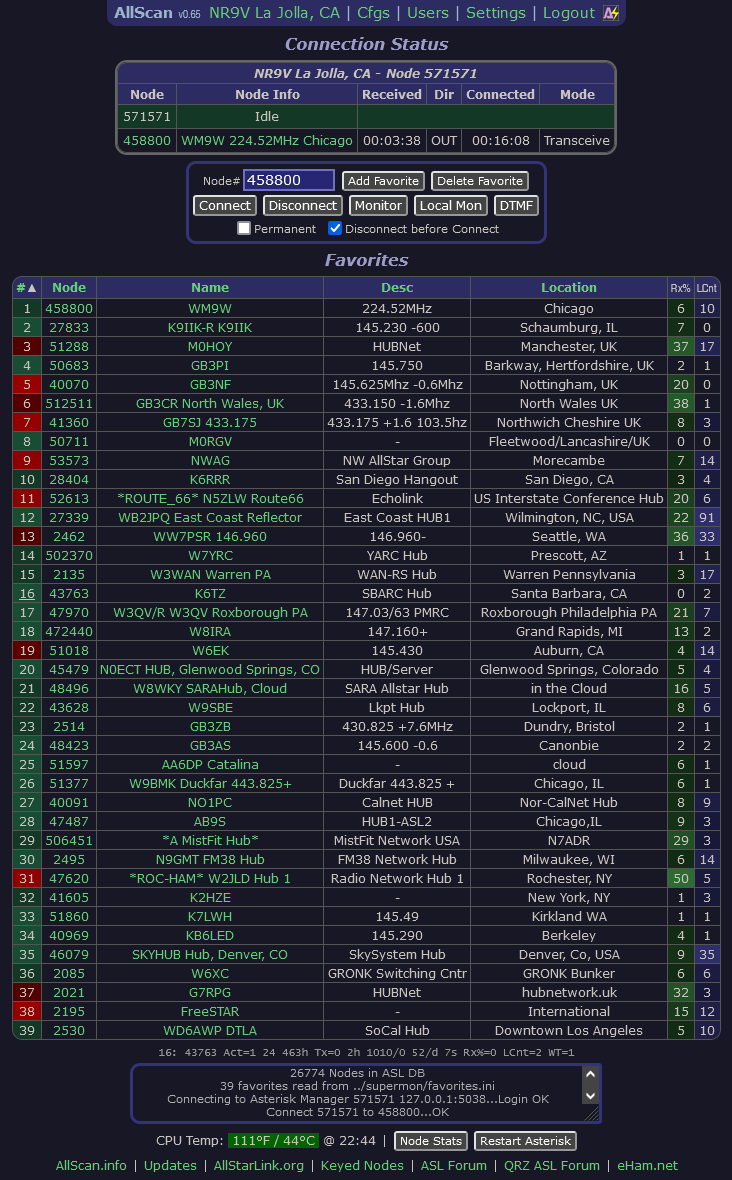
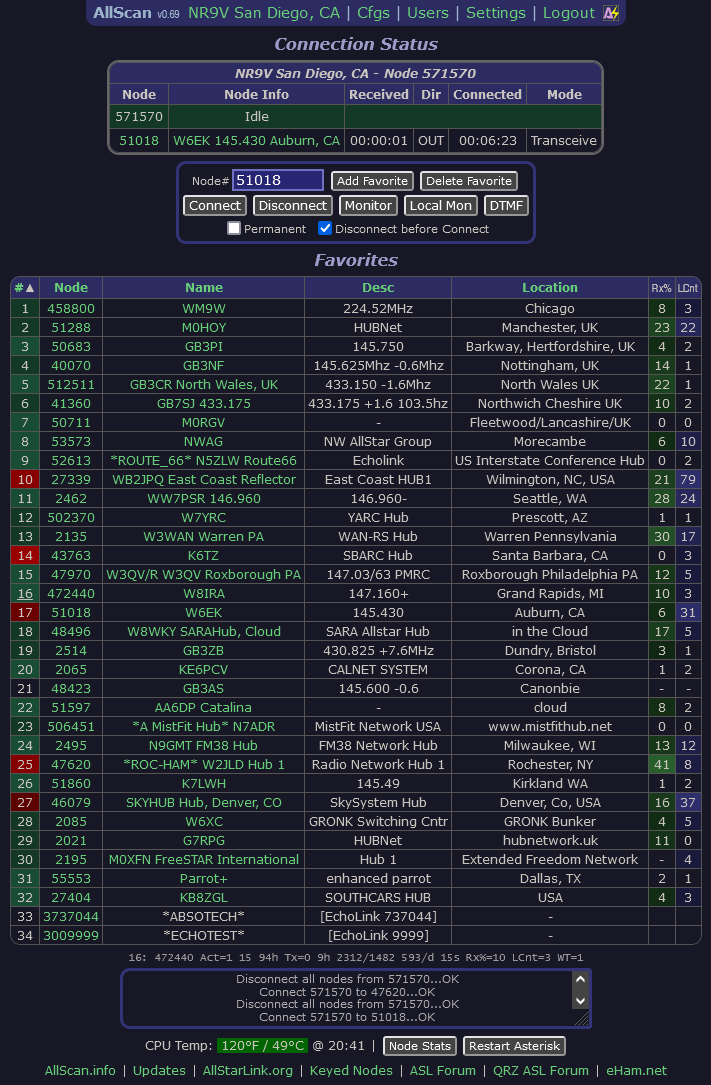
Implement retrieval of EchoLink node name/callsign data from AMI for display in the Favorites and Connection Status tables.

diff --git a/astapi/nodeInfo.php b/astapi/nodeInfo.php
@@ -9,8 +9,7 @@ function getAstInfo($fp, $nodeNum) {
 		// Link to ASL stats page
 		$info = "<a href=\"http://stats.allstarlink.org/stats/$nodeNum\" target=\"stats\">$info</a>";
 	} elseif($nodeNum > 3000000) {
-		// EchoLink lookup function by KN2R
-		$info = echolink_cache_lookup($fp, $nodeNum);
+		$info = getEchoLinkInfo($fp, $nodeNum);
 	} elseif(!empty($node['ip'])) {
 		if(strlen(trim($node['ip'])) > 3) {
 			$info = 'Web Txcvr / Phone Portal (' . $node['ip'] . ')';
@@ -29,33 +28,29 @@ function getAstInfo($fp, $nodeNum) {
 
 $elnk_cache = [];
 
-function echolink_cache_lookup($fp, $echonode) {
+function getEchoLinkInfo($fp, $echonode) {
 	global $elnk_cache, $ami;
-	$lookup = (int)substr($echonode, 1); // Strips off the leading "3" and leading zeros
+	$lookup = (int)substr($echonode, 1); // Strip leading '3' and zeros
 	if(isset($elnk_cache[$lookup])) {
 		$column = $elnk_cache[$lookup];
 		$time = time();
 		if($time > $column[0])
-			unset ($elnk_cache[$lookup]);
-		$info = $column[1] . " [EchoLink $lookup] (" . $column[2] . ")";
-		return $info;
+			unset($elnk_cache[$lookup]);
 	} else {
 		$AMI = $ami->command($fp, "echolink dbget nodename $lookup"); // Get EchoLink data from Asterisk
-		$rows = explode ("\n", $AMI);
-		$column = explode ("|", $rows[0]);
+		$rows = explode("\n", $AMI);
+		$column = explode("|", $rows[0]);
 		$str = $column[0];
 		if($column[0] == $lookup) {
 			$column[0] = time() + 300;
-			$elnk_cache[$lookup] = $column;
-			$info = $column[1] . " [EchoLink $lookup] (" . $column[2] . ")";
-			return $info;
 		} else {
 			$column = [];
 			$column[0] = time() + 30;
 			$column[1] = $column[2] = "No info";
-			$elnk_cache[$lookup] = $column;
-			$info = $column[1] . " [EchoLink $lookup] (" . $column[2] . ")";
-			return $info;
 		}
+		$elnk_cache[$lookup] = $column;
 	}
+	//$info = $column[1] . " [EchoLink $lookup] (" . $column[2] . ")";
+	$info = $column[1] . " [EchoLink $lookup]";
+	return $info;
 }

diff --git a/index.php b/index.php
@@ -3,6 +3,8 @@
 // Author: David Gleason - AllScan.info
 require_once('include/common.php');
 require_once('include/hwUtils.php');
+require_once('astapi/AMI.php');
+require_once('astapi/nodeInfo.php');
 $html = new Html();
 $msg = [];
 
@@ -119,10 +121,17 @@ foreach($favs as $n => $f) {
 	if(array_key_exists($f->node, $astdb)) {
 		list($x, $call, $desc, $loc) = $astdb[$f->node];
 	} else {
-		if($f->node < 3000000)
+		if($f->node < 3000000) {
 			list($x, $call, $desc, $loc) = [$n, '-', '[Not in ASL DB]', '[Check Node Number]'];
-		else
-			list($x, $call, $desc, $loc) = [$n, '-', '[EchoLink Node]', '-'];
+		} else {
+			$info = getELInfo($f->node);
+			if(empty($info))
+				list($x, $call, $desc, $loc) = [$n, '-', '[EchoLink Node]', '-'];
+			else {
+				$info = explode(' ', $info);
+				list($x, $call, $desc, $loc) = [$n, $info[0], $info[1] . ' ' . $info[2], '-'];
+			}
+		}
 	}
 	$name = str_replace([$f->node, $call, $desc, $loc, ' ,'], ' ', $f->label);
 	foreach(['call', 'name', 'desc', 'loc'] as $var)
@@ -303,6 +312,37 @@ function processForm($parms, &$msg) {
 			}
 			break;
 	}
+}
+
+function getELInfo($n) {
+	global $node, $host, $ami;
+	static $servers, $fp, $cfg;
+	if(!$node || !$host) {
+		return;
+	}
+	if(empty($ami)) {
+		$ami = new AMI();
+		$servers = [];
+		$fp = [];
+		$cfg = readAllmonCfg();
+	}
+	// Login to AMI
+	if(!array_key_exists($host, $servers)) {
+		// msg("Connecting to Asterisk Manager $node $host...");
+		$fp[$host] = $ami->connect($host);
+		if($fp[$host] === false) {
+			//msg('Connect Failed. Check allmon.ini settings.');
+			return;
+		}
+		if($ami->login($fp[$host], $cfg[$node]['user'], $cfg[$node]['passwd']) !== false) {
+			$servers[$host] = 'y';
+			//msg('Login OK');
+		} else {
+			//msg("Login Failed. Check allmon.ini settings.");
+			return;
+		}
+	}
+	return getAstInfo($fp[$host], $n);
 }
 
 function sortArray($list, $col, $desc) {

diff --git a/astapi/AMI.php b/astapi/AMI.php
@@ -1,4 +1,5 @@
 <?php
+define('AMI_DEBUG_LOG', 'log.txt');
 
 class AMI {
 
@@ -17,32 +18,42 @@ function login($fp, $user, $password) {
 	return (strpos($login, "Authentication accepted") !== false);
 }
 
-function command($fp, $cmdString) {
+function command($fp, $cmdString, $debug=false) {
 	// Generate ActionID to associate with response
 	$actionID = 'cpAction_' . mt_rand();
 	if((fwrite($fp, "ACTION: COMMAND\r\nCOMMAND: $cmdString\r\nActionID: $actionID\r\n\r\n")) > 0) {
-		$rptStatus = $this->getResponse($fp, $actionID);
-		$res = explode("\r\n", $rptStatus);
+		if($debug)
+			logToFile('CMD: ' . $cmdString . ' - ' . $actionID, AMI_DEBUG_LOG);
+		$rptStatus = $this->getResponse($fp, $actionID, $debug);
+		// Some AMI response line endings have just a NL and no CR
+		$res = explode("\n", $rptStatus);
+		array_walk($res, 'trim');
+		if($debug)
+			logToFile('RESP: ' . varDumpClean($res, true), AMI_DEBUG_LOG);
 		return (strpos($res[1], '--END COMMAND--') !== false) ? 'OK' : $res[1];
 	}
 	return "Get node $cmdString failed";
 }
 
-function getResponse($fp, $actionID) {
+function getResponse($fp, $actionID, $debug=false) {
 	$t0 = time();
 	$response = '';
 	while(time() - $t0 < 20) {
 		$str = fgets($fp);
 		if($str === false)
 			return $response;
+		if($debug)
+			logToFile('1: ' . $str, AMI_DEBUG_LOG);
 		// Look for ActionID set in command()
 		if(trim($str) === "ActionID: $actionID") {
 			$response = $str;
 			while(time() - $t0 < 20) {
 				$str = fgets($fp);
-				if($str === "\r\n" || $str === false)
+				if($str === "\r\n" || $str[0] === "\n" || $str === false)
 					return $response;
 				$response .= $str;
+				if($debug)
+					logToFile('2: ' . $str, AMI_DEBUG_LOG);
 			}
 		}
 	}

diff --git a/include/common.php b/include/common.php
@@ -1,7 +1,7 @@
 <?php
 // AllScan main includes & common functions
 // Author: David Gleason - AllScan.info
-$AllScanVersion = "v0.68";
+$AllScanVersion = "v0.69";
 require_once('Html.php');
 require_once('logUtils.php');
 require_once('timeUtils.php');

diff --git a/README.md b/README.md
@@ -70,16 +70,17 @@ NOTES for HamVOIP only:
 2. Then restart Lighttpd web server or restart the node
 
 # AllScan DiY and TurnKey Node Designs
-If you do not yet have a node or might like to upgrade your node, see the following Guide by AllScan's author NR9V:
+If you do not yet have a node or might like to upgrade your node, see the following Guides by AllScan's author NR9V:<br>
+[How To - Build a High-Quality Radio-less AllStar Node for Under $100](https://allscan.info/docs/radioless-node.php)<br>
 [How To - Build a High-Quality Full-Duplex AllStar Node for Under $150](https://allscan.info/docs/diy-node.php)
 
 AllScan nodes provide extensive features and excellent audio quality at a lower price than any other node on the market. They are easy to build by anyone with basic computer & electronics skills. I also provide kits and fully assembled & tested nodes at reasonable prices.
 
 # Configuration Files and Parameters
 Most nodes already have a number of Cfg files and to simplify the install process AllScan will try to use these rather than require redundant files/data to be created/entered. These files are as follows:
-1. **global.inc**: Cfg file in the supermon directory with user settings such as your name, call sign, node title, etc. AllScan will automatically import the following variables from global.inc if found: $CALL, $LOCATION, and $TITLE2. Otherwise, go to the AllScan Cfgs Page and enter your Call Sign, Location and Node Title parameters there. Once these parms have been imported or set AllScan will not read from the global.inc file again. The Call Sign and Location parameters are shown in the AllScan Page Header, and the Node Title parameter is shown in the Connection Status Table header.
-2. **astdb.txt**: The ASL database file with the list of all nodes provisioned on the AllStarLink network. This file should already exist in ../supermon/astdb.txt or /var/log/asterisk/astdb.txt. If the file is not found it will be automatically downloaded into the allscan directory. If you have a properly configured node you should have a cron entry that downloads the latest astdb file at least once per week. AllScan shows the status of the above files and their last modification time in the status messages box (below the Favorites Table). If you see there is no recent astdb file (less than 1 week old) you should review your cron settings (which should have been configured when you installed ASL/AllMon and Supermon).
-3. **allmon.ini**: This defines your node number(s) and the Asterisk Manager credentials. It can usually be found in any of the following locations: ../supermon/allmon.ini, /etc/asterisk/allmon.ini.php or ../allmon2/allmon.ini.php. AllScan will search those locations in that order and use the first file found. If you see connection/stats error messages check those file locations and verify they have the correct data. If you have multiple Nodes defined in allmon.ini, AllScan will use the first Node# in the file. (A future version of AllScan may support multiple Node#s and allow these cfgs to be stored in AllScan's database.)
+1. **astdb.txt**: The ASL database file with the list of all nodes provisioned on the AllStarLink network. This file should already exist in ../supermon/astdb.txt or /var/log/asterisk/astdb.txt. If the file is not found it will be automatically downloaded into the allscan directory. If you have a properly configured node you should have a cron entry that downloads the latest astdb file at least once per week. AllScan shows the status of the above files and their last modification time in the status messages box (below the Favorites Table). If you see there is no recent astdb file (less than 1 week old) you should review your cron settings (which should have been configured when you installed ASL/AllMon and Supermon).
+2. **allmon.ini**: This defines your node number(s) and the Asterisk Manager credentials. It can usually be found in any of the following locations: ../supermon/allmon.ini, /etc/asterisk/allmon.ini.php or ../allmon2/allmon.ini.php. AllScan will search those locations in that order and use the first file found. If you see connection/stats error messages check those file locations and verify they have the correct data. If you have multiple Nodes defined in allmon.ini, AllScan will use the first Node# in the file. (A future version of AllScan may support multiple Node#s and allow these cfgs to be stored in AllScan's database.)
+3. **global.inc**: Cfg file in the supermon directory with user settings such as your name, call sign, node title, etc. AllScan will automatically import the following variables from global.inc if found: $CALL, $LOCATION, and $TITLE2. Otherwise, go to the AllScan Cfgs Page and enter your Call Sign, Location and Node Title parameters there. Once these parms have been imported or set AllScan will not read from global.inc again. The Call Sign and Location parameters are shown in the AllScan Page Header, and the Node Title parameter is shown in the Connection Status Table header.
 4. **favorites.ini**: The favorites file can be found in the supermon directory or in the allscan directory. Or if you have the file somewhere else (eg. ../supermon2/) you can set that location in the 'Favorites.ini Locations' Cfgs Parameter. If not found in any of those locations you will be prompted to create a new favorites.ini file in the allscan directory. A future version of AllScan will store the favorites in its database instead of in a file but will still support import/export functions.
 
 All AllScan Cfg parameters can be viewed and set on the Cfgs page if you are logged in as an Admin user. Just click the 'Cfgs' link and all Cfgs are then shown along with an Edit form.
@@ -120,6 +121,9 @@ As of version 0.65, AllScan implements the main features I originally planned, a
 3. Other features that are highly requested or that seem like a good fit
 
 # Release Notes
+**v0.69 2023-05-18**<br>
+Implement retrieval of EchoLink node name/callsign data from AMI for display in the Favorites and Connection Status tables.
+
 **v0.68 2023-03-25**<br>
 Allow EchoLink Node #s to be Added to Favorites.
 
@@ -190,6 +194,9 @@ Add Asterisk API. Code refactoring. Add Message Stats div, set up JS functions t
 Initial Commit.
 
 # FAQs
+Q: How can the Admin user password be reset?<br>
+A: If you have only one admin user defined (Superuser permission level) and lose the password, the only way to reset it is to delete the AllScan database file. This can be done by executing "sudo rm /etc/allscan/allscan.db" by SSH. This will delete ALL AllScan user accounts and Cfgs settings.
+
 Q: Will AllScan at some point be able to directly scan nodes ie. by connecting to nodes in the Favorites list and scanning through the list until activity is found?<br>
 A: I had originally intended to implement such a feature but it turns out that it is not needed, and could cause issues. Unlike a radio which can scan any number of memory channels quickly and easily, making connections on AllStar requires IAX connections to be opened, which results in connection announcements on some nodes and systems. I would not want AllScan to be the cause of any annoyance to repeater system admins or users if frequent "Node X Connected" messages were broadcast every time an AllScan user enabled scanning. ASL's excellent statistics database and API enables AllScan to show highly reliable Tx & Rx activity stats without needing to directly connect to any nodes, and this has enabled my original goals for AllScan to be achieved in a simple way that does not result in any extra load being placed on other nodes.<br>
 Also, checking a list of nodes for activity can be done in a more direct way using the Local Monitor function. For example you could set up a 2nd node where you do a permanent Local Monitor connect to all nodes you want to monitor, and then monitor that on a separate frequency or with an IAX/SIP phone/app. You can then monitor the "monitoring" node and if you hear a call, a net or something else interesting then switch to your main node and connect to the active node there. This would be easy to set up. You probably wouldn't want to connect to more than a handful of nodes at a time in Local Monitor mode but it could be a good way to monitor 5 or so nodes simultaneously and not miss any activity. The 2nd node could even be a cloud Linux server with no node hardware needed. Just monitor it through a VOIP phone app such as "GS Wave" which is an excellent free SIP phone app.
